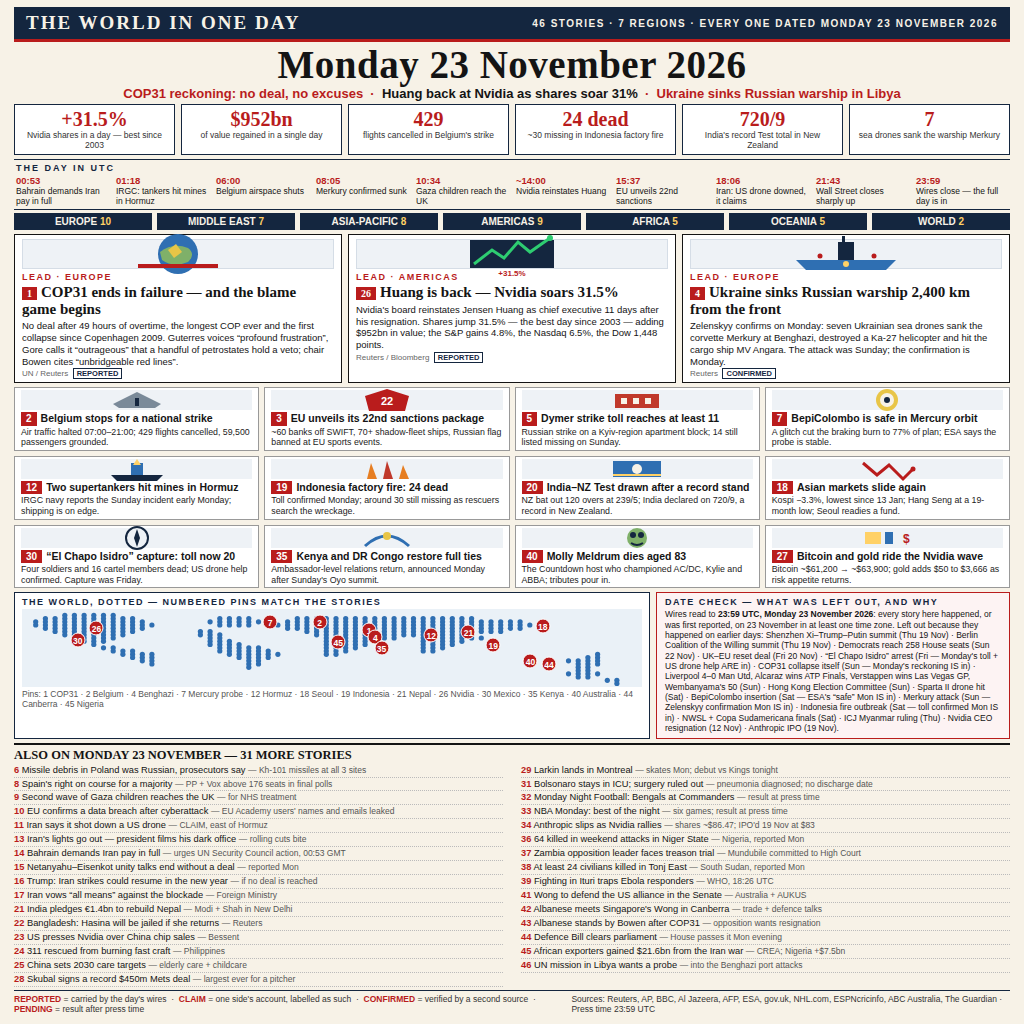
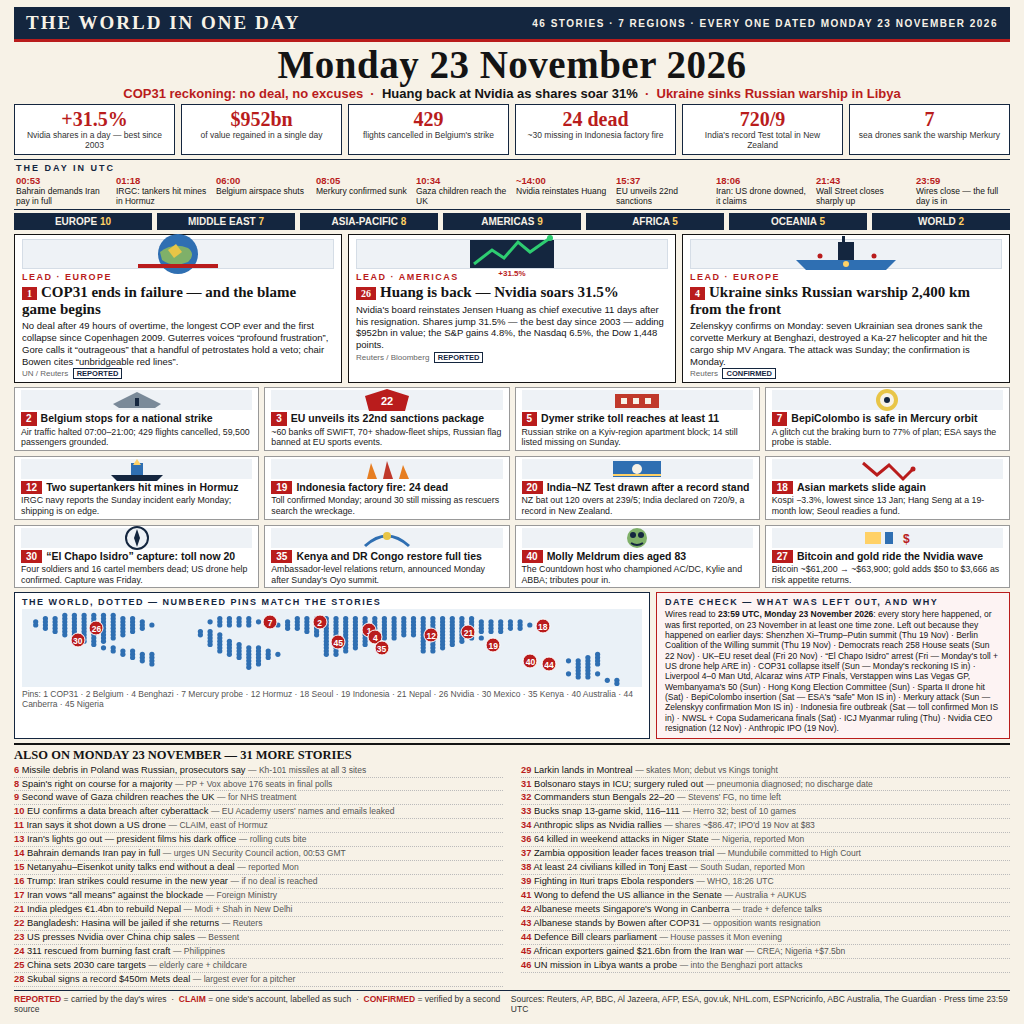
Add final sports results: Commanders 22-20, Bucks snap 13-game skid

Changed region(s): [[0.5312, 0.75, 0.7812, 0.8125], [0.5, 0.9688, 0.9688, 1.0], [0.0, 0.9688, 0.125, 1.0]]

diff --git a/poster.html b/poster.html
@@ -170,8 +170,8 @@
     <div class="col">
       <div class="it"><b>29</b> Larkin lands in Montreal <span class="t2">— skates Mon; debut vs Kings tonight</span></div>
       <div class="it"><b>31</b> Bolsonaro stays in ICU; surgery ruled out <span class="t2">— pneumonia diagnosed; no discharge date</span></div>
-      <div class="it"><b>32</b> Monday Night Football: Bengals at Commanders <span class="t2">— result at press time</span></div>
-      <div class="it"><b>33</b> NBA Monday: best of the night <span class="t2">— six games; result at press time</span></div>
+      <div class="it"><b>32</b> Commanders stun Bengals 22–20 <span class="t2">— Stevens' FG, no time left</span></div>
+      <div class="it"><b>33</b> Bucks snap 13-game skid, 116–111 <span class="t2">— Herro 32; best of 10 games</span></div>
       <div class="it"><b>34</b> Anthropic slips as Nvidia rallies <span class="t2">— shares ~$86.47; IPO'd 19 Nov at $83</span></div>
       <div class="it"><b>36</b> 64 killed in weekend attacks in Niger State <span class="t2">— Nigeria, reported Mon</span></div>
       <div class="it"><b>37</b> Zambia opposition leader faces treason trial <span class="t2">— Mundubile committed to High Court</span></div>
@@ -188,7 +188,7 @@
 </div>
 
 <div class="foot">
-  <div class="leg"><b>REPORTED</b> = carried by the day's wires &nbsp;&middot;&nbsp; <b>CLAIM</b> = one side's account, labelled as such &nbsp;&middot;&nbsp; <b>CONFIRMED</b> = verified by a second source &nbsp;&middot;&nbsp; <b>PENDING</b> = result after press time</div>
+  <div class="leg"><b>REPORTED</b> = carried by the day's wires &nbsp;&middot;&nbsp; <b>CLAIM</b> = one side's account, labelled as such &nbsp;&middot;&nbsp; <b>CONFIRMED</b> = verified by a second source</div>
   <div>Sources: Reuters, AP, BBC, Al Jazeera, AFP, ESA, gov.uk, NHL.com, ESPNcricinfo, ABC Australia, The Guardian &middot; Press time 23:59 UTC</div>
 </div>
 
